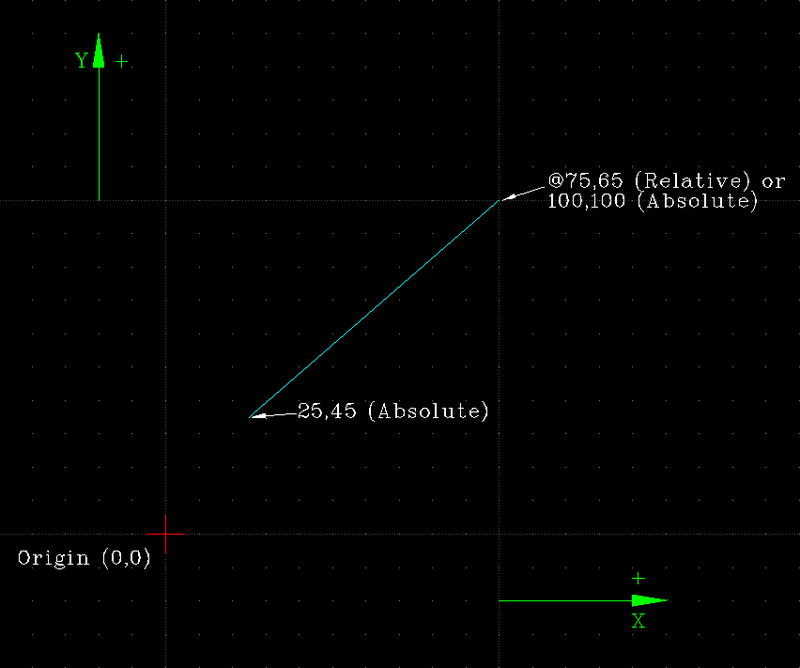
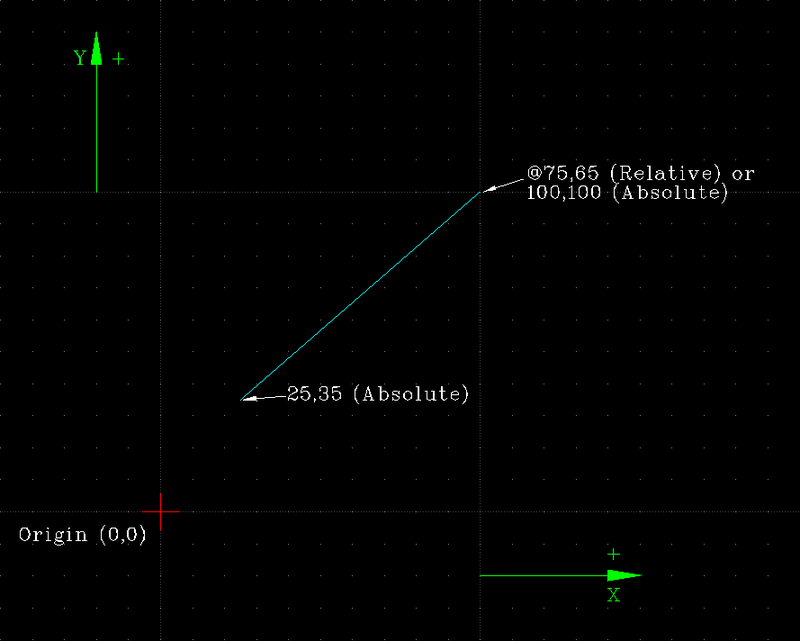
General updates and corrections.

diff --git a/ref/coordinates.rst b/ref/coordinates.rst
@@ -36,6 +36,11 @@ Cartesian
 
 The *Cartesian* coordinate system is commonly used in most CAD programs.  Cartesian coordinates take the form *X,Y* where X is the horizontal axis and Y is the vertical axis.  A specific point in a drawing is located by exact distances from the X and Y axis - for example a point in a drawing could be "100,75", as shown here.
 
+.. note:
+
+Coordinates can also be written as 10..20 which allows for `keypad <keyboard>` input.
+
+
 |
 |
 |
@@ -76,37 +81,35 @@ Locating a point for an entity can be  done in two ways; *Absolute* or *Relative
 Absolute
 ~~~~~~~~
 
-When using Absolute coordinates, whether cartisian or polar, points are entered in direct relation to the origin (0,0). To do this in LibreCAD, enter in the desired point, e.g. "65,95" or "100<45".  
+When using Absolute coordinates, whether cartisian or polar, points are entered in direct relation to the origin (0,0). To do this in LibreCAD, enter in the desired point, e.g. "100,75" or "100<45" as shown in the two images above.
 
 .. _relative:
 
 Relative
 ~~~~~~~~
 
-Relative coordinates are entered in relation to the last point set, not the origin.  To set a relative point. the coordinates, either cartesian or polar, are prefixed with the '@' symbol.  For example, if the previous point was set from the point of origin is at 20 units from 0 horizontally and 45 vertically (20,45), to set the next point 10,10 relative to the previous point, using "@10,10, would result in a point at 30 units from 0 horizontally and 45 vertically (30,55).
+Relative coordinates are entered in relation to the last point set, not the origin.  To set a relative point the coordinates, either cartesian or polar, are prefixed with the '@' symbol.  
 
- - e.g @50,50 would then enter the second point 50 units horizontally along the x axis and 50 units vertically along the Y axis to give this second point relative to your last point (20,45).See image below.  Relative coordinates, such as @10,20, can also be written as 10..20 which allows for keypad input.
+When using cartesian coordinates for example, to set a 75 unit above and 65 units to the right of the previous point, use "@75,65".  In this example, if the previous point was set at 20 units from 0 horizontally and 45 vertically from the origin (20,45), setting the next point @75,65 relative to 20,45, using @75,65 would result in a point at 100 units from 0 horizontally and 100 vertically (100,100 absolute).
 
-Relative Polar coordinates - this is a very useful way of drawing entities of which you know the exact length and angle.
-
-For example you could draw a 100mm long line from start point 50,50 (absolute coordinate) and specify your second point at 100<45 (relative 'polar' coordinate).
-
-You can see from this example that the second point is based on our 'distance' of 100mm and at an angle of 45 degrees. See example image below.
+When using a polar coordinate, to draw a line 100mm and 45 degrees from the last point drawn at 25,45 (absolute cartesian coordinate) use "@100<45" (relative polar coordinate).
 
 .. figure:: /images/byAbsCoorRelCoor.png
     :width: 800px
     :height: 668px
     :align: left
-    :scale: 33
-    :alt: Absolute Coordinates
+    :scale: 40
+    :alt: Absolute & Relative Cartesian Coordinates
 
 .. figure:: /images/byAbsCoorRelPolar.png
     :width: 800px
     :height: 614px
     :align: right
-    :scale: 33
-    :alt: Polar Coordinates
+    :scale: 40
+    :alt: Absolute Cartesian & Relative Polar Coordinates
 
+|
+|
 
 Angles in LibreCAD
 ~~~~~~~~~~~~~~~~~~
@@ -131,6 +134,8 @@ All angles in LibreCAD are measured in 360 degrees in an anti-clockwise directio
 
 Placing Entities
 -----------------
+
+.. _keyboard:
 
 Keyboard
 ~~~~~~~~
